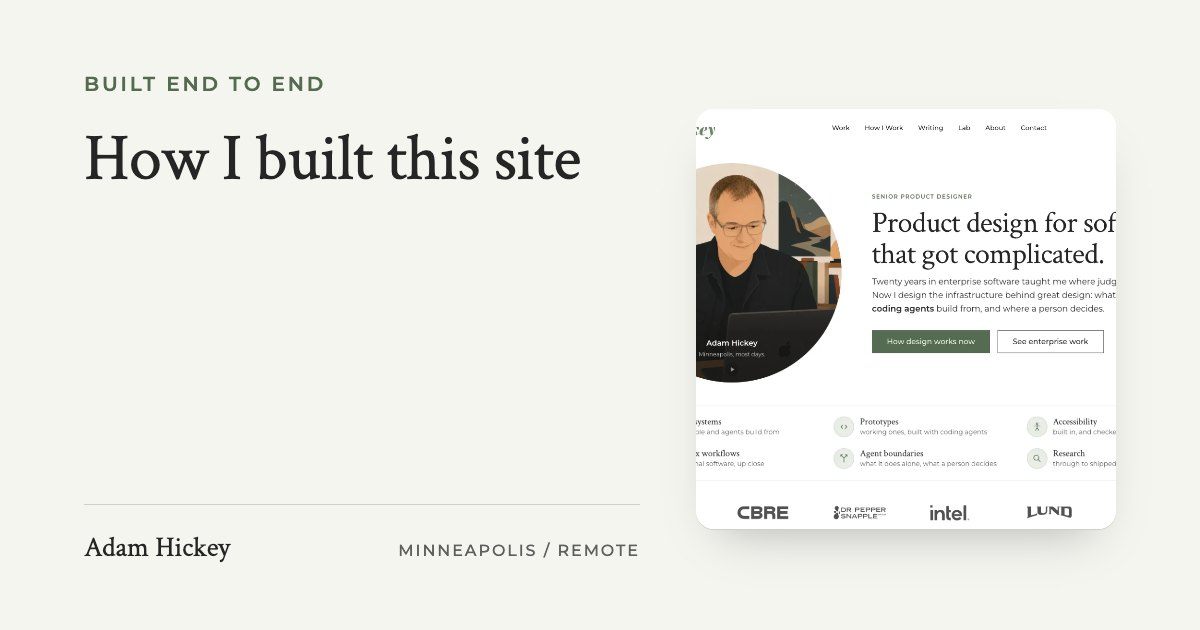
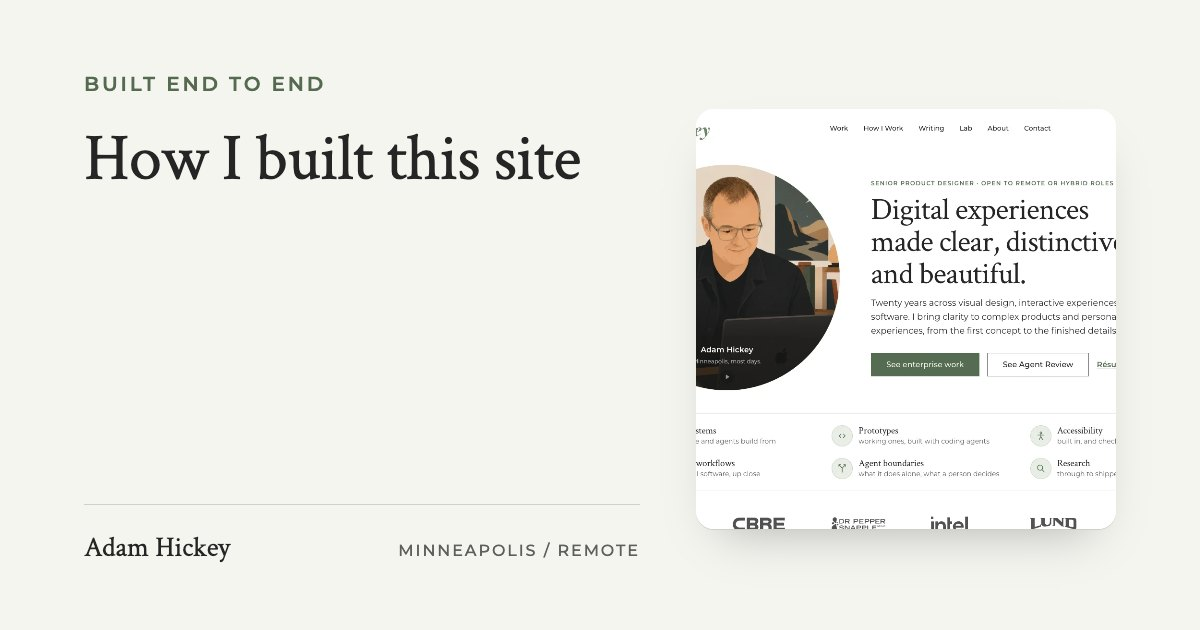
The homepage capture in the this-site write-up is retaken with the new headline, so the homepage share card and the write-up's card, which both frame it, stop quoting the old one beside the new; the write-up's alt describes the capture it has, its dateModified and lastmod move to today, and the bust

diff --git a/case-study/this-site.html b/case-study/this-site.html
@@ -19,7 +19,7 @@
   <meta property="og:url" content="https://adamhickey.com/case-study/this-site.html" />
   <meta property="og:title" content="How I built this site | Adam Hickey" />
   <meta property="og:description" content="How adamhickey.com is built: thirty-eight pages of plain HTML with no framework and no build step, three token files under four normative specs, and eleven checks that measure the rendered page before anything ships." />
-  <meta property="og:image" content="https://adamhickey.com/img/og/this-site.jpg?v=4" />
+  <meta property="og:image" content="https://adamhickey.com/img/og/this-site.jpg?v=5" />
   <meta property="og:image:width" content="1200" />
   <meta property="og:image:height" content="630" />
   <meta name="twitter:card" content="summary_large_image" />
@@ -40,9 +40,9 @@
           "description": "A build write-up for adamhickey.com: thirty-eight pages of plain HTML with no framework and no build step, three token files under four normative specs, and eleven checks that measure the rendered page before anything ships.",
           "url": "https://adamhickey.com/case-study/this-site.html",
           "mainEntityOfPage": "https://adamhickey.com/case-study/this-site.html",
-          "image": "https://adamhickey.com/img/og/this-site.jpg?v=4",
+          "image": "https://adamhickey.com/img/og/this-site.jpg?v=5",
           "datePublished": "2026-09-17",
-          "dateModified": "2026-10-25",
+          "dateModified": "2026-10-26",
           "author": {
             "@id": "https://adamhickey.com/#adam"
           },
@@ -238,8 +238,8 @@
              sits one click away would be the one dishonest picture here. -->
         <figure class="build-shot">
           <div class="build-laptop"><div class="build-laptop-lid">
-              <img src="../img/site/this-site.webp?v=5" width="1400" height="875" fetchpriority="high" decoding="async"
-                   alt="The homepage of this site at laptop width: the wordmark and six section links across the top, the portrait in a circle on the left, and on the right the eyebrow Senior Product Designer over the title &ldquo;Product design for software that got complicated.&rdquo;, a three-line dek ending &ldquo;Now I design the infrastructure behind great design: what people and coding agents build from, and where a person decides.&rdquo; with &ldquo;people and coding agents&rdquo; in bold, and two buttons reading How design works now and See enterprise work. Under the pair, six facts in two rows of three, each with a small line icon in a pale disc, among them Agent boundaries, and a row of six client wordmarks along the bottom." />
+              <img src="../img/site/this-site.webp?v=6" width="1400" height="875" fetchpriority="high" decoding="async"
+                   alt="The homepage of this site at laptop width: the wordmark and six section links across the top, the portrait in a circle on the left, and on the right the eyebrow Senior Product Designer &middot; Open to remote or hybrid roles over the title &ldquo;Digital experiences made clear, distinctive and beautiful.&rdquo;, a three-line dek beginning &ldquo;Twenty years across visual design, interactive experiences and enterprise software.&rdquo;, a green See enterprise work button, an outlined See Agent Review button and a R&eacute;sum&eacute; link. Under the pair, six facts in two rows of three, each with a small line icon in a pale disc, among them Agent boundaries, and a row of six client wordmarks along the bottom." />
             </div></div>
         </figure>
 
